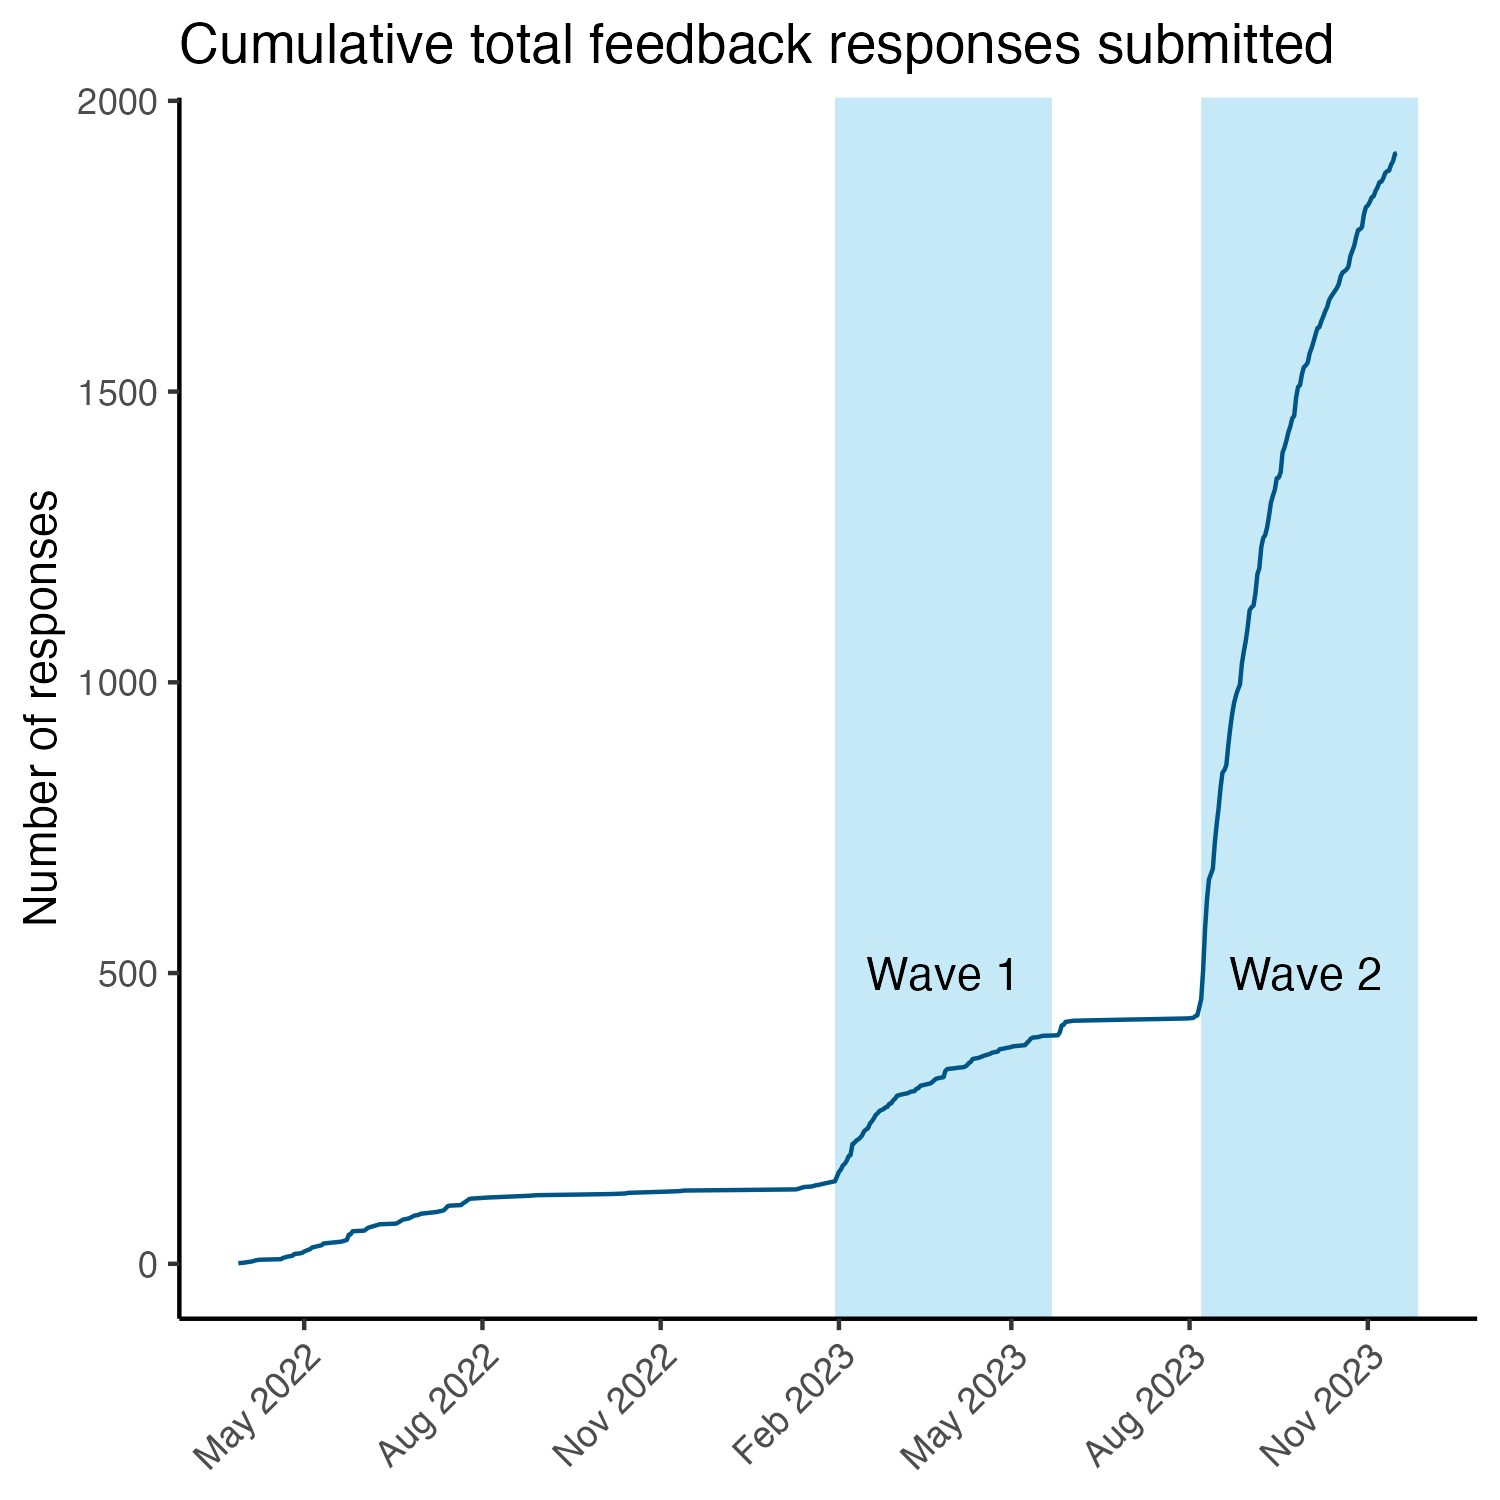
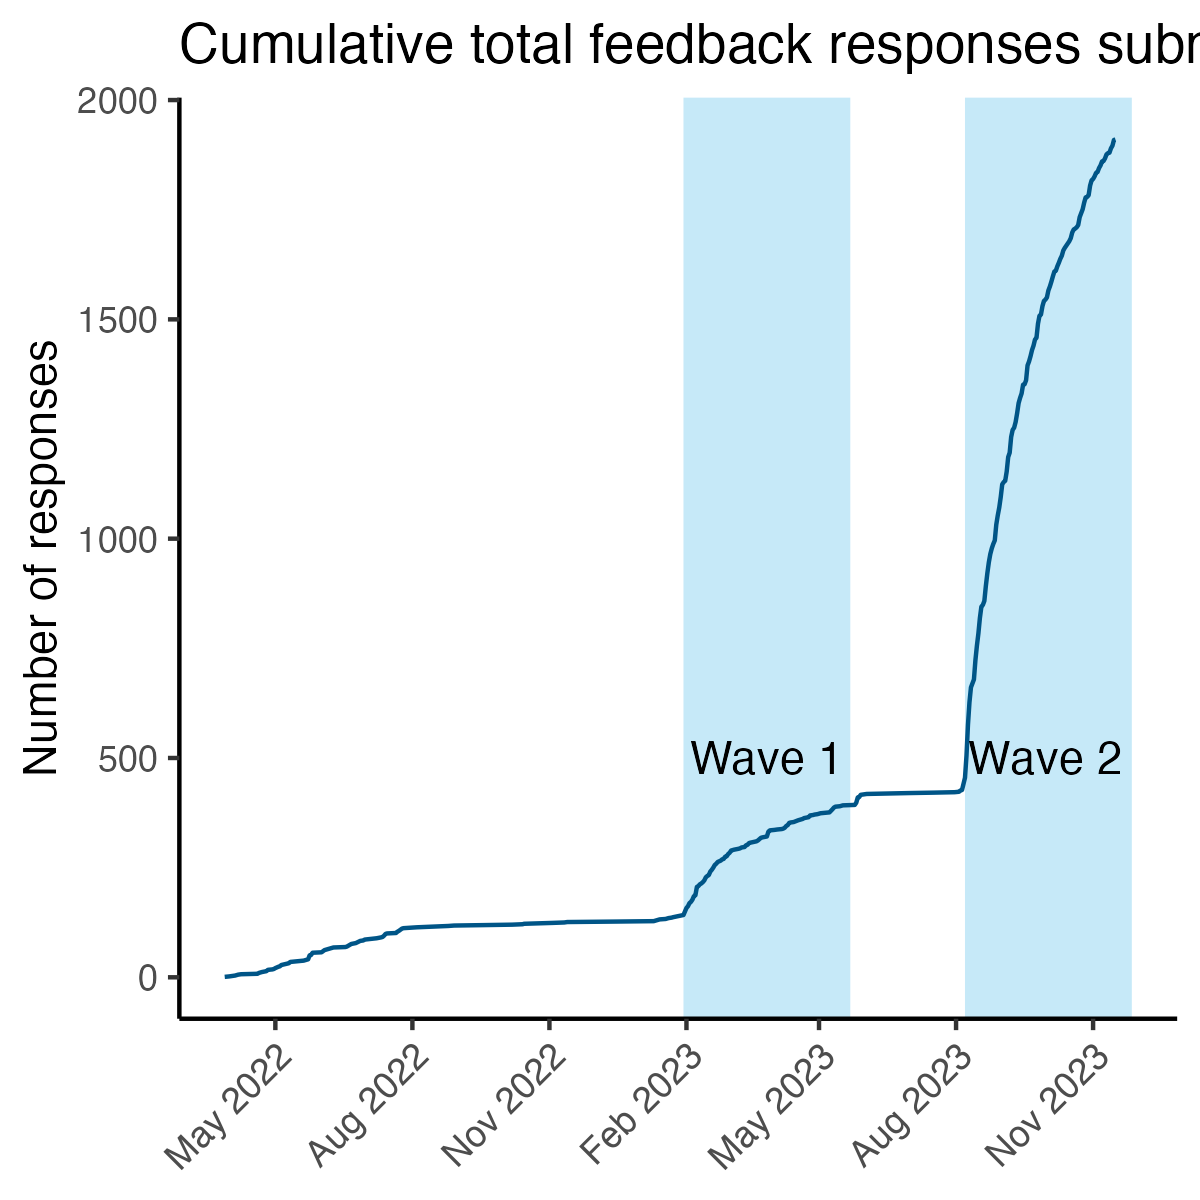
Remove redundant image file

diff --git a/reports/notebooks/rigor_champions_impact.md b/reports/notebooks/rigor_champions_impact.md
@@ -5,15 +5,7 @@ Rose Hartman
 
 ``` r
 # load custom functions for plotting
-library(ggplot2)
-theme_set(theme_classic())
-
-chop_blue <- "#41b6e6"
-chop_darkblue <- "#005587"
-chop_pink <- "#ed1f7f"
-chop_green <- "#91a01e"
-chop_brown <- "#786452"
-chop_brown_text <- "#55473c"
+source(here::here("src", "scripts", "functions_plotting.R"))
 
 # if the figures directory doesn't exist, create it
 dir.create(here::here("reports"), showWarnings = FALSE)
@@ -22,17 +14,14 @@ dir.create(here::here("reports", "figures"), showWarnings = FALSE)
 
 ``` r
 quick_module_feedback <- readRDS(here::here("data", "raw", "quick_module_feedback.rds")) |> 
-  dplyr::mutate(date = lubridate::floor_date(feedback_timestamp, unit = "days"),
-                year = lubridate::year(feedback_timestamp),
-                month = lubridate::month(feedback_timestamp, label = TRUE, abbr = TRUE),
-                day = lubridate::day(feedback_timestamp))
+  dplyr::mutate(date = lubridate::floor_date(feedback_timestamp, unit = "days"))
 ```
 
 ``` r
 program_dates <- as.Date(c("2023-01-30", "2023-03-27", "2023-05-22", "2023-08-07", "2023-09-30", "2023-11-27"))
 names(program_dates) <- c("w1_start", "w1_mid", "w1_end", "w2_start", "w2_mid", "w2_end")
 
-quick_module_feedback |> 
+p1 <- quick_module_feedback |> 
   dplyr::count(date) |> 
   dplyr::mutate(total = cumsum(n),
                 date = as.Date(date)) |> 
@@ -50,12 +39,11 @@ quick_module_feedback |>
   scale_x_date(date_breaks = "3 months", date_labels = "%b %Y") + 
   theme(axis.text.x = element_text(angle = 45, vjust = 1, hjust=1)) + 
   annotate("text", x = program_dates[c("w1_mid", "w2_mid")], y = 500, label = c("Wave 1", "Wave 2")) 
-```
 
-![](rigor_champions_impact_files/figure-gfm/feedback_over_time-1.png)<!-- -->
-
-``` r
 ggsave(filename = "feedback_over_time.png", 
+       plot = p1,
        path = here::here("reports", "figures"),
-       width = 5, height = 5, units = "in")
+       width = 4, height = 4, units = "in")
 ```
+
+![](../figures/feedback_over_time.png)
